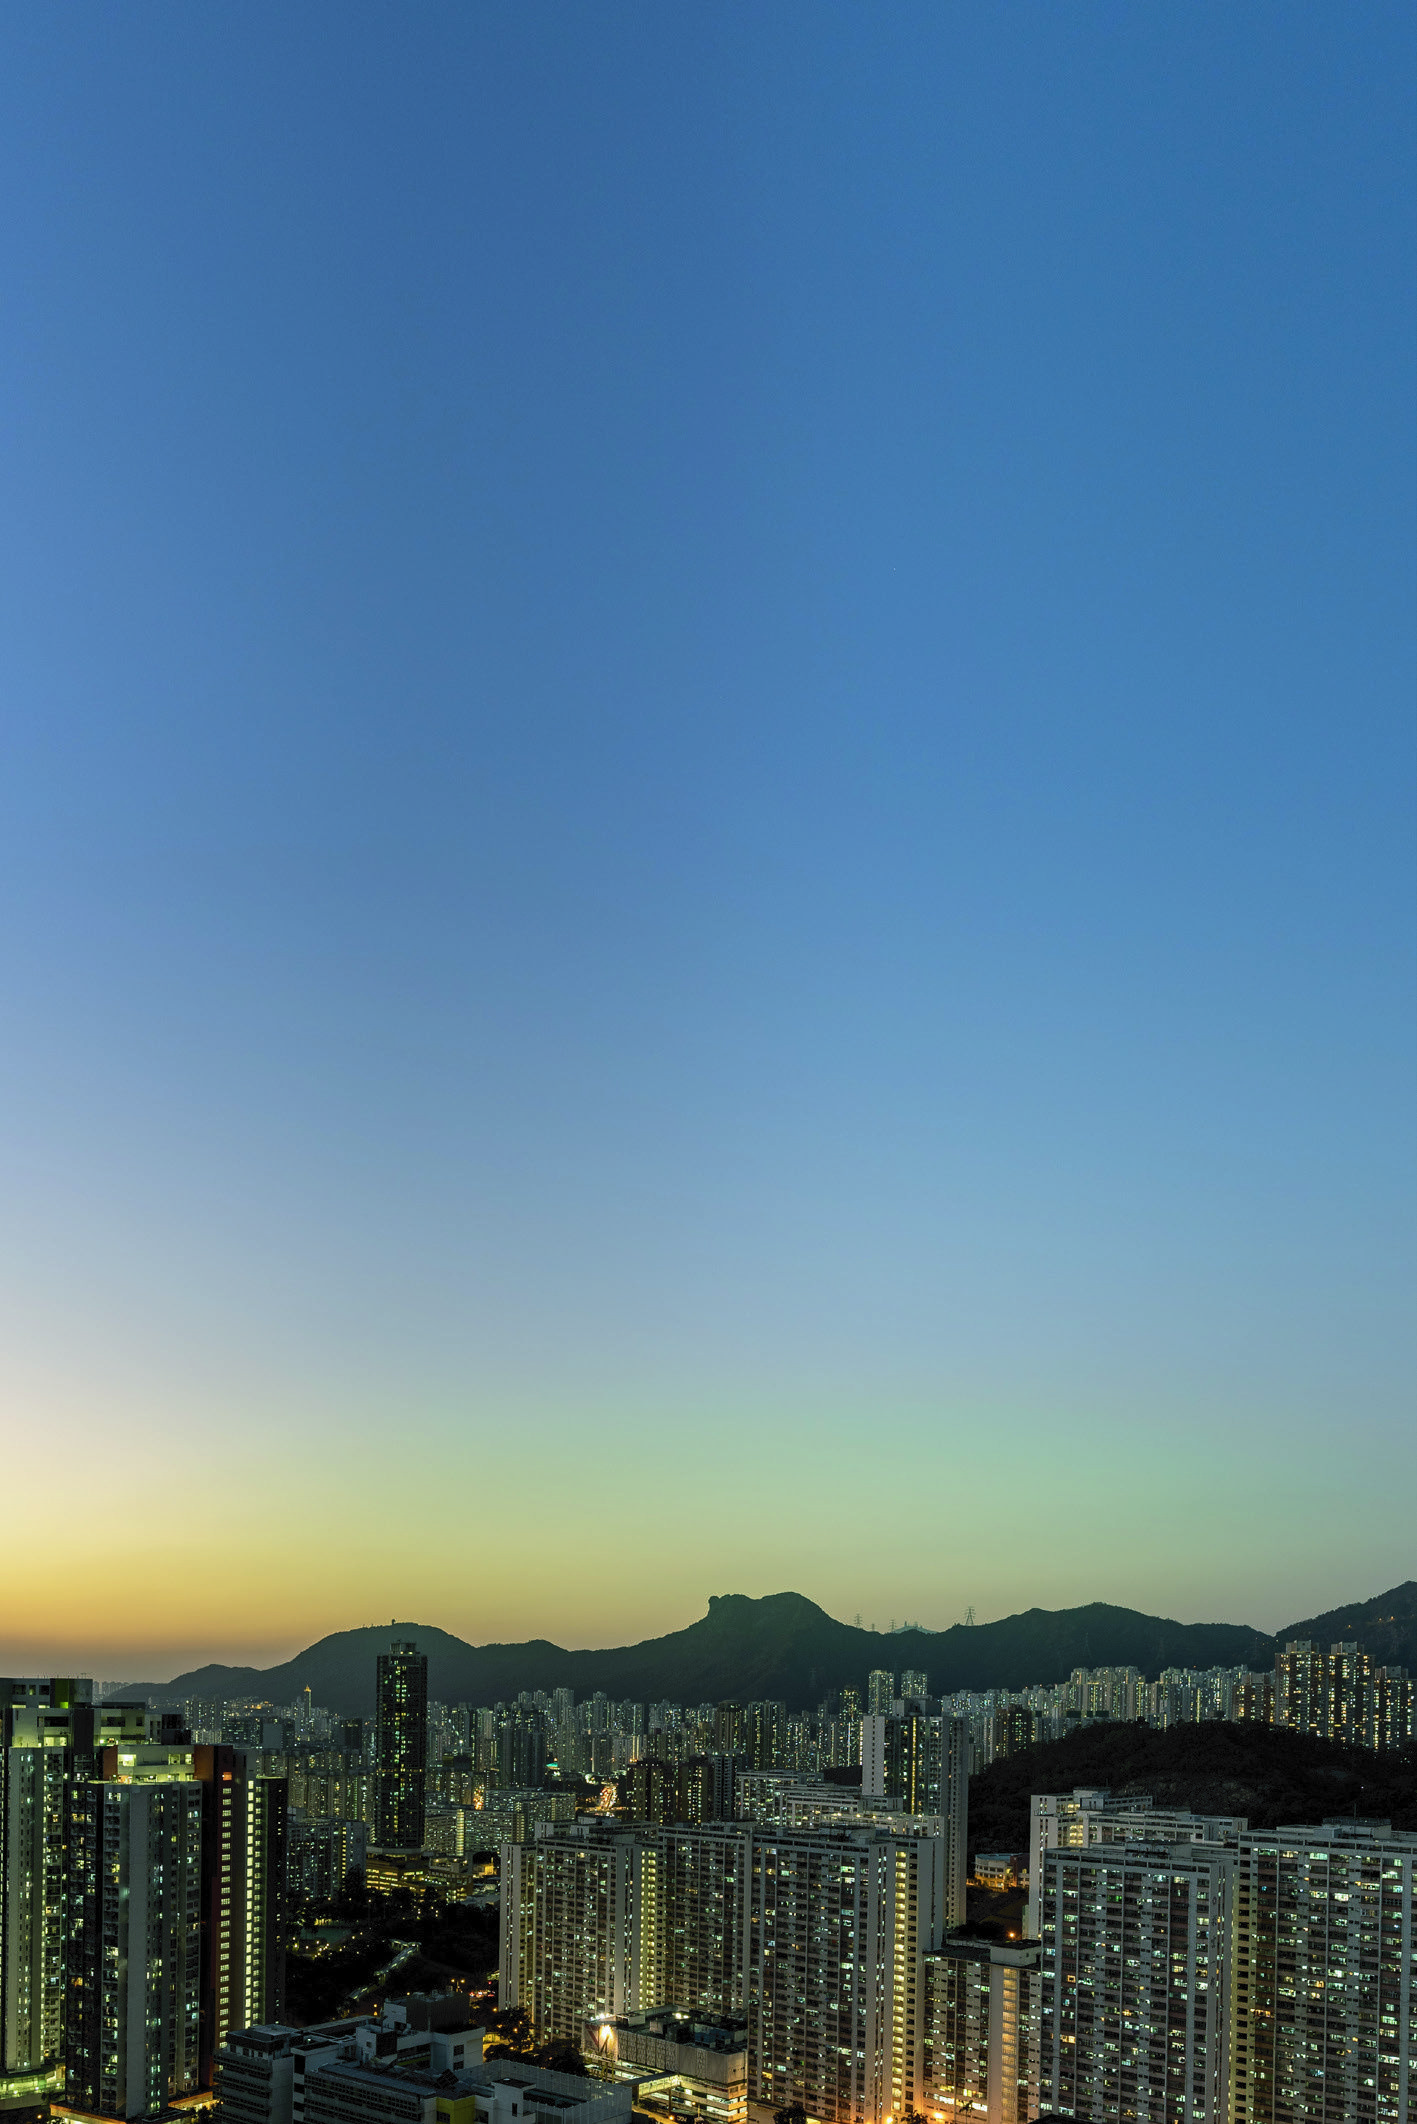
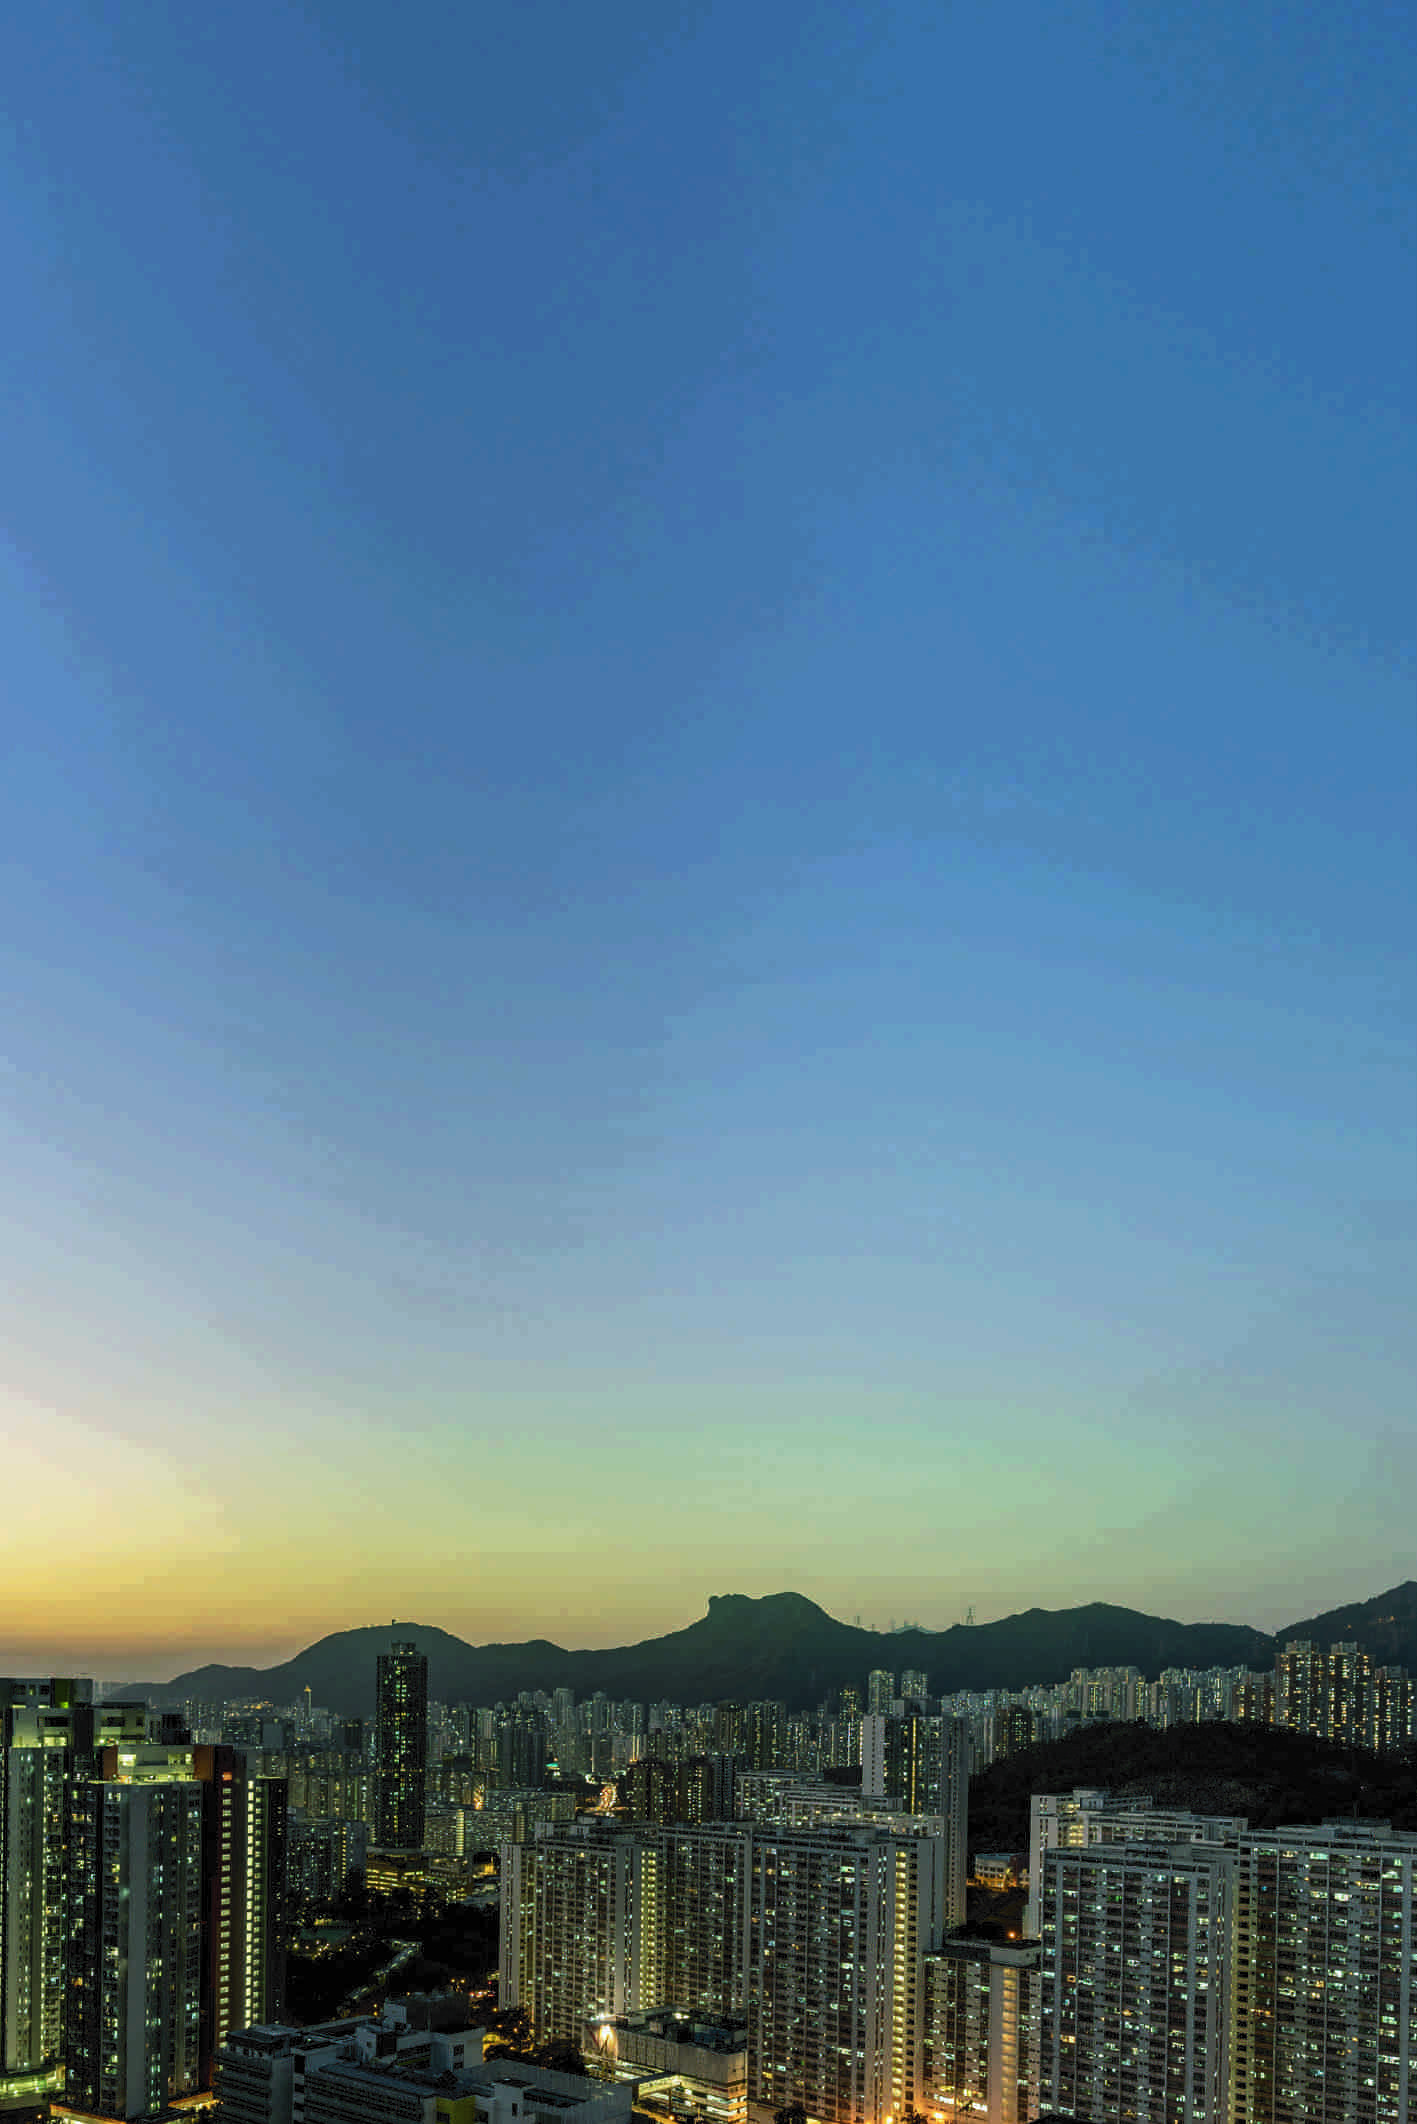
fix: resolve 3 P2 issues and add project case studies
- Remove duplicate image images/fy40-drone.jpeg (same MD5 as .jpg)
- Compress drone-catalog-1.jpg and drone-product-1.jpeg to ~272KB
- Fix nested <p> tag in contact.html
- Add project case references to solution-traffic.html and solution-eagle.html

diff --git a/solution-eagle.html b/solution-eagle.html
@@ -79,7 +79,9 @@
        <div class="feature-item"><strong>无人机巡飞</strong><br>与无人机系统联动，空中补充巡查，快速抵达现场。</div>
      </div>
      <h2>应用场景</h2>
-     <p>适用于城市重点区域监控、大型活动安保、突发事件应急指挥、森林防火监测、海岸线巡查等场景。与公安指挥平台对接，实现「发现—研判—调度—处置」的快速响应。</p></main><footer class="footer">
+     <p>适用于城市重点区域监控、大型活动安保、突发事件应急指挥、森林防火监测、海岸线巡查等场景。与公安指挥平台对接，实现「发现—研判—调度—处置」的快速响应。</p>
+     <h2>项目实践</h2>
+     <p>在 Mile 2 综合交通枢纽等大型交通节点的弱电与安防系统建设中，AXLTeco 部署了覆盖全区域的高空瞭望与全景监控设备，为复杂交通环境提供立体化安防保障。</p></main><footer class="footer">
   <div class="footer-inner">
     <div>
       <h4>AXLTeco Limited</h4>

diff --git a/solution-traffic.html b/solution-traffic.html
@@ -81,7 +81,9 @@
        <div class="feature-item"><strong>公交优先系统</strong><br>检测公交车辆位置，给予绿灯优先通行权。</div>
      </div>
      <h2>方案价值</h2>
-     <p>提升道路通行能力，减少交通事故，优化公共交通服务，为城市交通管理提供数据支撑和决策依据。</p></main><footer class="footer">
+     <p>提升道路通行能力，减少交通事故，优化公共交通服务，为城市交通管理提供数据支撑和决策依据。</p>
+     <h2>项目实践</h2>
+     <p>AXLTeco 已参与拉各斯 Mile 2 综合交通枢纽、拉各斯轻轨蓝线五期及卡诺火车站等交通基础设施的弱电与智能化系统建设，积累了交通领域的工程实施经验。</p></main><footer class="footer">
   <div class="footer-inner">
     <div>
       <h4>AXLTeco Limited</h4>

diff --git a/contact.html b/contact.html
@@ -70,7 +70,7 @@
     </nav>
   </div>
 </header>
-<div class="page-hero"><h1>联系我们</h1><p><p style="text-align:center;font-size:1.1rem;margin-bottom:40px;">无论您有任何需求或疑问，欢迎随时与AXLTeco团队取得联系。我们期待与您合作，共创智慧未来。</p>
+<div class="page-hero"><h1>联系我们</h1><p style="text-align:center;font-size:1.1rem;margin-bottom:40px;">无论您有任何需求或疑问，欢迎随时与AXLTeco团队取得联系。我们期待与您合作，共创智慧未来。</p>
     <div class="contact-grid">
       <div class="contact-card">
         <div class="icon">📱</div>
